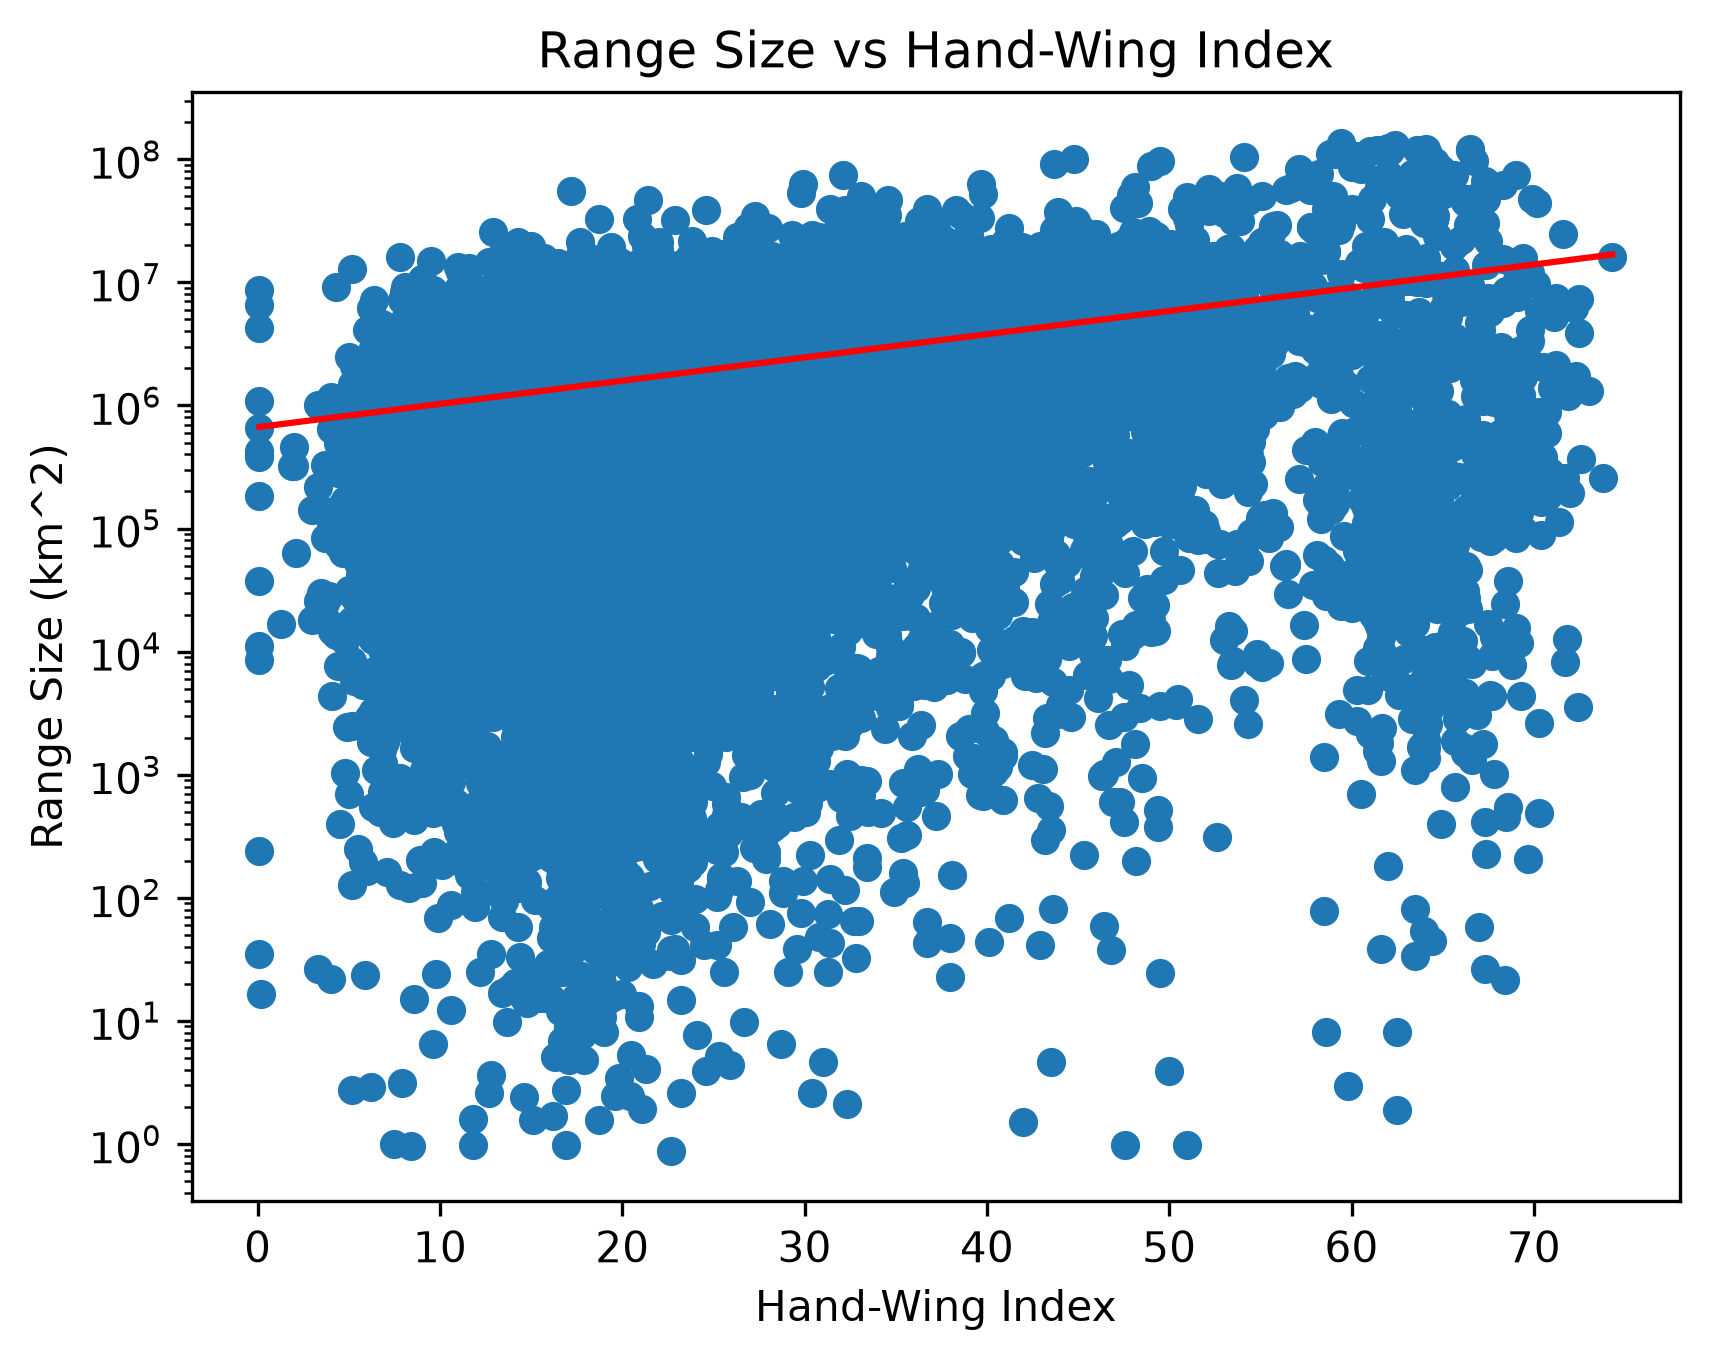
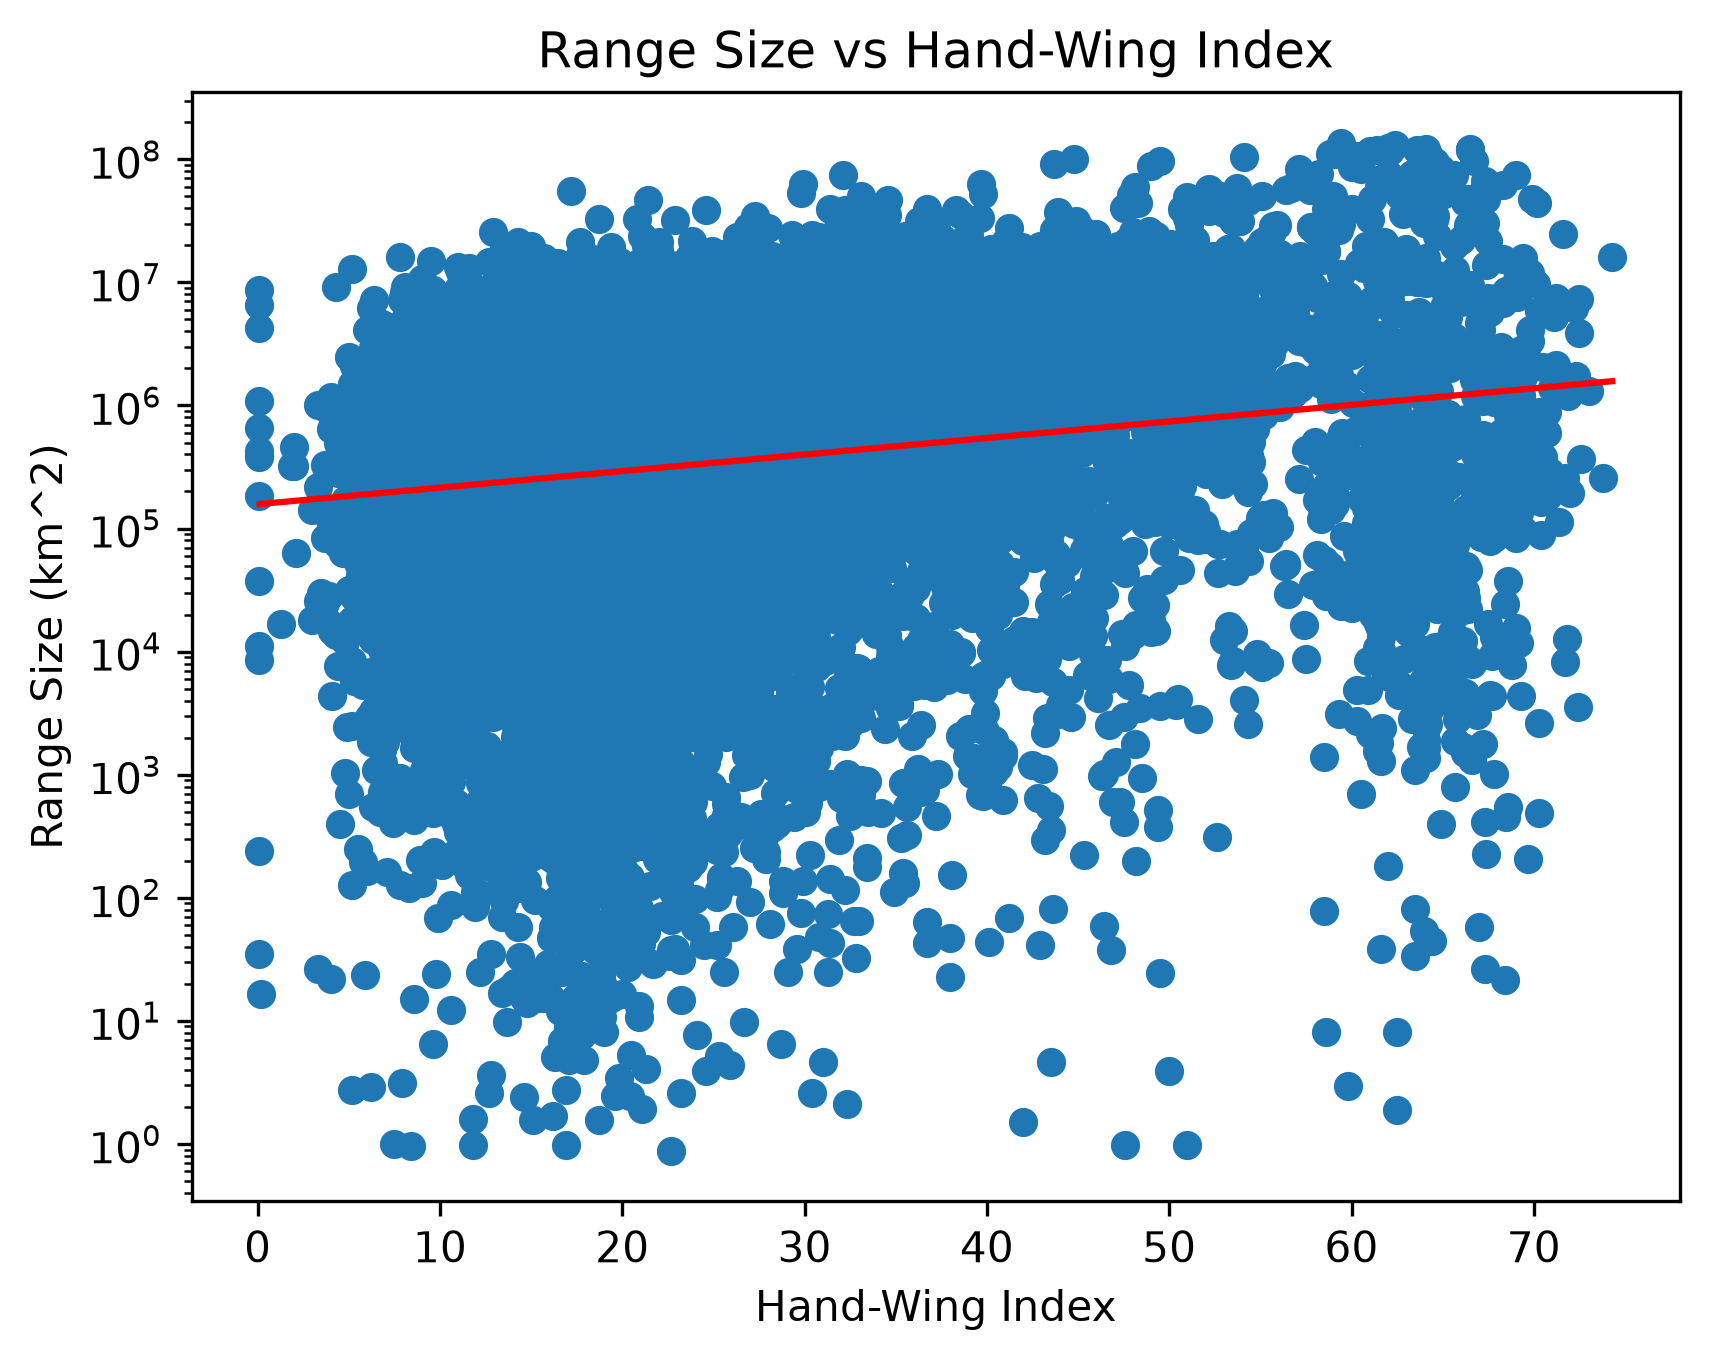
Used the log of range size and mass in the GLM

diff --git a/src/AVONET_PCA.py b/src/AVONET_PCA.py
@@ -8,9 +8,9 @@ from sklearn.decomposition import PCA
 
 df_AVONET_IUCN = pd.read_csv("./data/AVONET_IUCN.csv") #Reads in the AVONET_IUCN spreadsheet
 df = df_AVONET_IUCN.drop(columns=["Total.individuals", "Complete.measures", "Sequence", "Female", "Male", "Unknown", "Max.Latitude", "Min.Latitude", "Centroid.Longitude", "Centroid.Latitude", "Range.Size"]).select_dtypes(include=[np.number]).dropna() #Selects the columns with only numbers and removes the rows with missing values
-IUCN_categories = df_AVONET_IUCN.loc[df.index, "RL Category"]
-scaler = StandardScaler()
-scaler.fit(df)
+IUCN_categories = df_AVONET_IUCN.loc[df.index, "RL Category"] #Gets the IUCN categories from the AVONET_IUCN spreadsheet
+scaler = StandardScaler() #Standardizes the data
+scaler.fit(df) #Fits the scaler to the data
 scaled_data = scaler.transform(df)
 
 pca = PCA(n_components=2)
@@ -18,7 +18,7 @@ pca.fit(scaled_data)
 x_pca = pca.transform(scaled_data)
 
 plt.figure(figsize=(8, 6))
-sns.scatterplot(x=x_pca[:, 0], y=x_pca[:, 1], hue=IUCN_categories, hue_order=["LC", "NT", "VU", "EN", "CR", "EW", "EX"], palette="viridis")
+sns.scatterplot(x=x_pca[:, 0], y=x_pca[:, 1], hue=IUCN_categories, hue_order=["LC","NT", "VU", "EN", "CR", "EW", "EX"], palette="viridis")
 plt.xlabel("Principal Component 1")
 plt.ylabel("Principal Component 2")
 plt.ylim(-8, 6)

diff --git a/src/AVONET_GLM.py b/src/AVONET_GLM.py
@@ -6,14 +6,14 @@ import numpy as np
 
 #Process and fit the data
 df = pd.read_csv("./data/AVONET_IUCN.csv") #Read the AVONET_IUCN csv file
-model = smf.glm(formula="Q('Range.Size') ~ Q('Hand-Wing.Index') + Q('Mass')", data=df, family=sm.families.Gamma(link=sm.families.links.Log())) #Use HWI and mass as predictors and range size as the response
+model = smf.glm(formula="np.log(Q('Range.Size')) ~ Q('Hand-Wing.Index') + np.log(Q('Mass'))", data=df, family=sm.families.Gaussian()) #Use HWI and mass as predictors and range size as the response
 results = model.fit() #Fit the model
 print(results.summary())
 
 #Plot the data and model
 hwi_ordered = np.linspace(df['Hand-Wing.Index'].min(), df['Hand-Wing.Index'].max(), 200)
 pred_hwi = pd.DataFrame({'Hand-Wing.Index': hwi_ordered, 'Mass': df['Mass'].mean()})
-pred_range1 = results.predict(pred_hwi)
+pred_range1 = np.exp(results.predict(pred_hwi))
 plt.scatter(df['Hand-Wing.Index'], df['Range.Size'])
 plt.plot(hwi_ordered, pred_range1, color='red')
 plt.xlabel('Hand-Wing Index')
@@ -25,7 +25,7 @@ plt.show()
 
 mass_ordered = np.linspace(df['Mass'].min(), df['Mass'].max(), 200)
 pred_mass = pd.DataFrame({'Mass': mass_ordered, 'Hand-Wing.Index': df['Hand-Wing.Index'].mean()})
-pred_range2 = results.predict(pred_mass)
+pred_range2 = np.exp(results.predict(pred_mass))
 plt.scatter(df['Mass'], df['Range.Size'])
 plt.plot(mass_ordered, pred_range2, color='red')
 plt.xlabel('Mass (g)')